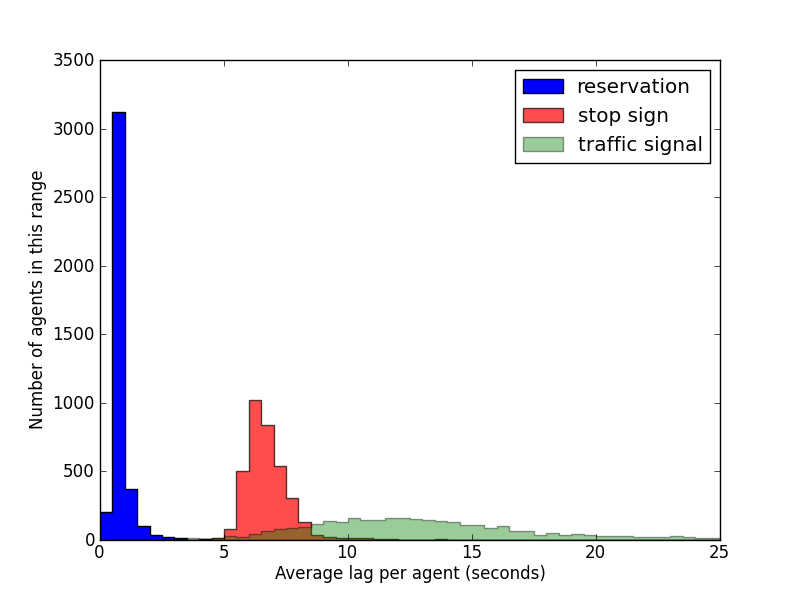
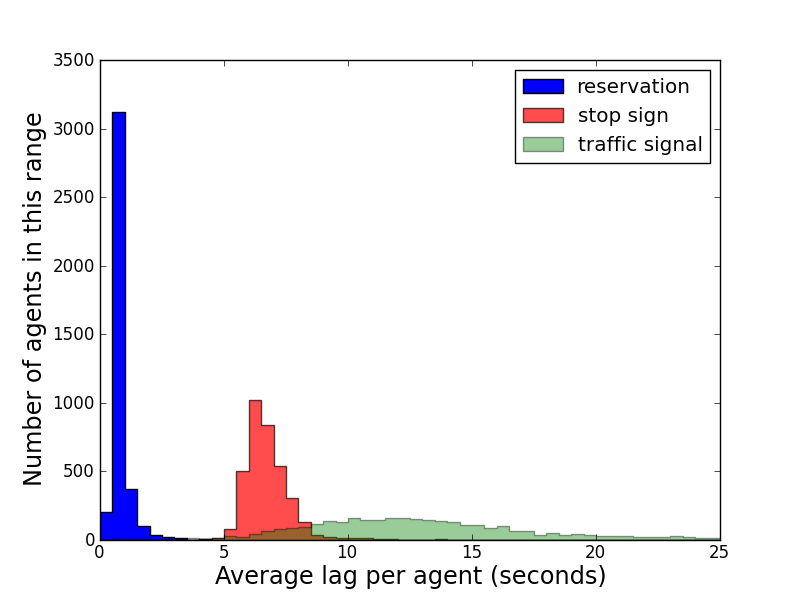
large font in graphs

Changed region(s): [[0.2812, 0.93, 0.75, 0.99], [0.0312, 0.18, 0.0625, 0.81]]

diff --git a/process_stats.py b/process_stats.py
@@ -52,15 +52,15 @@ for line in fileinput.input():
 colors = ['b', 'r', 'g']
 
 def hgram(transform, data, xlabel, yobject):
-  pylab.xlabel(xlabel)
-  pylab.ylabel("Number of " + yobject + " in this range")
+  pylab.xlabel(xlabel, fontsize='x-large')
+  pylab.ylabel("Number of " + yobject + " in this range", fontsize='x-large')
   alpha = 1
   alpha_step = 0.9 / len(data)
   color = iter(colors)
   for exp, dat in data.items():
     ls = transform(dat)
     pylab.hist(ls, bins=50, histtype='stepfilled', label=exp, alpha=alpha,
-               color=next(color))
+               color=next(color), range=(0, 25))
     alpha -= alpha_step
     print exp + ": " + xlabel
     print "-" * len(xlabel)
@@ -89,8 +89,8 @@ hgram(average, thruput_per_i,
       "Average throughput (entered / requests for some duration) per intersection",
       "intersections")
 # Results from s4
-pylab.xlabel("Time (seconds)")
-pylab.ylabel("Number of active agents")
+pylab.xlabel("Time (seconds)", fontsize='x-large')
+pylab.ylabel("Number of active agents", fontsize='x-large')
 for exp in experiments:
   pylab.plot(active_per_time_x[exp], active_per_time_y[exp], label=exp)
 pylab.legend()
